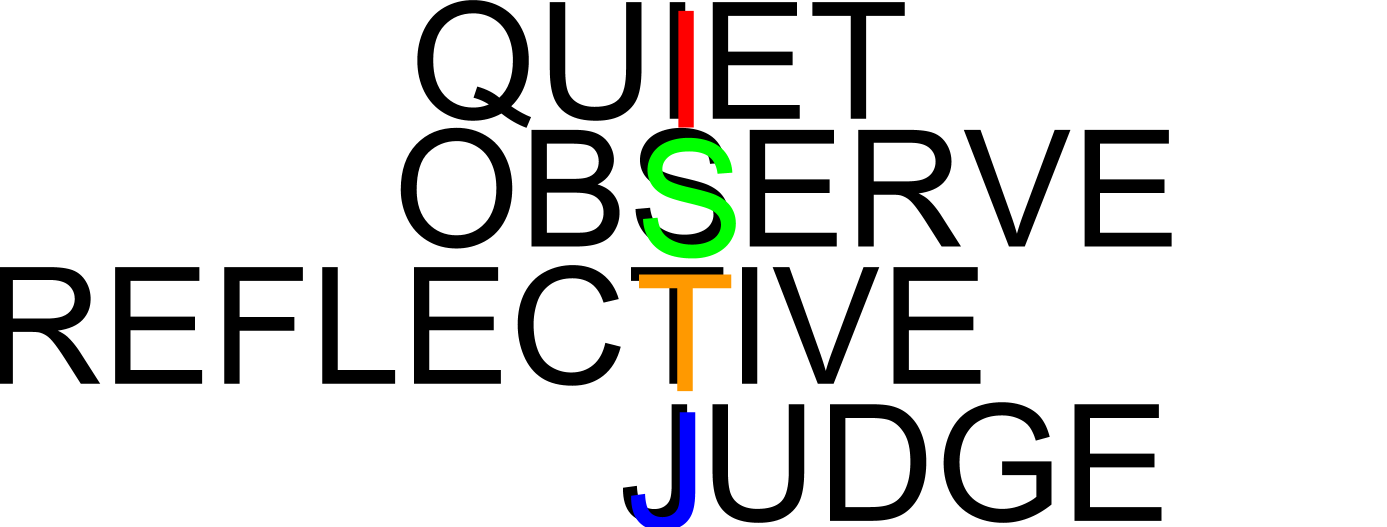
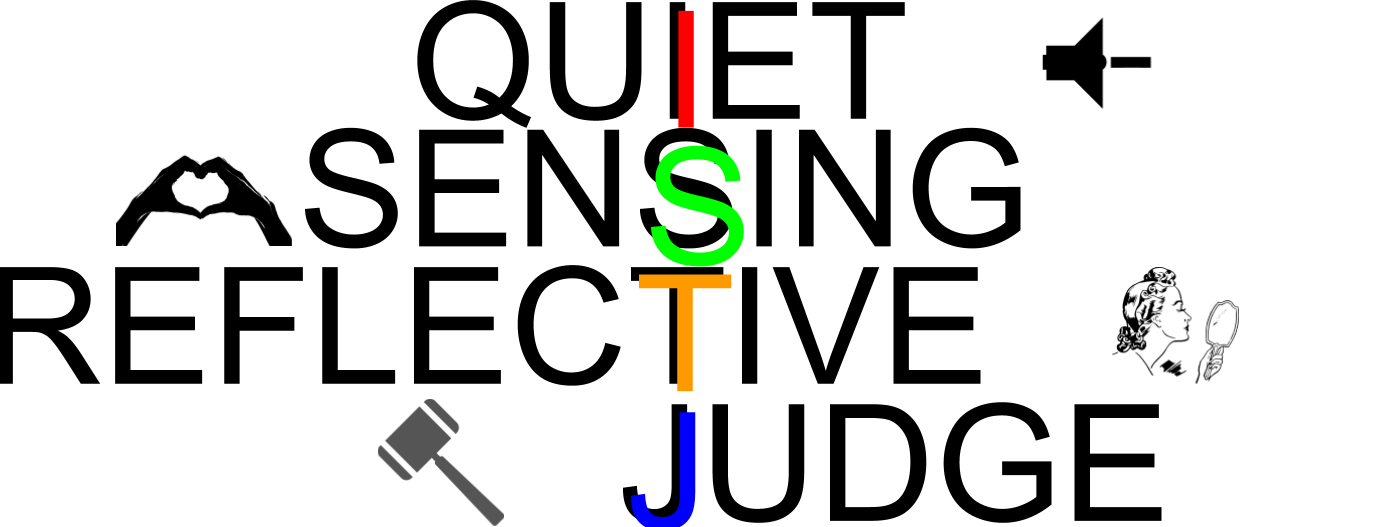
fixed intj images

diff --git a/index.html b/index.html
@@ -118,7 +118,7 @@
 										<h3>16 Personalities</h3>
 									</header>
                                     <div class="content">
-                                        <span class="image main"><img src="images/intj.png" alt="" /></span>
+                                        <span class="image main"><img src="images/intj,%20istj.png" alt="" /></span>
 
                                         <p>My 16 personalities test concludes that I am an ISTJ. I agree with this because I am, arguably, introverted, I can be empathic and I think very crucially on topics that interest me while being judgemental and suspicious of most of people's actions. </p>
                                     </div>
